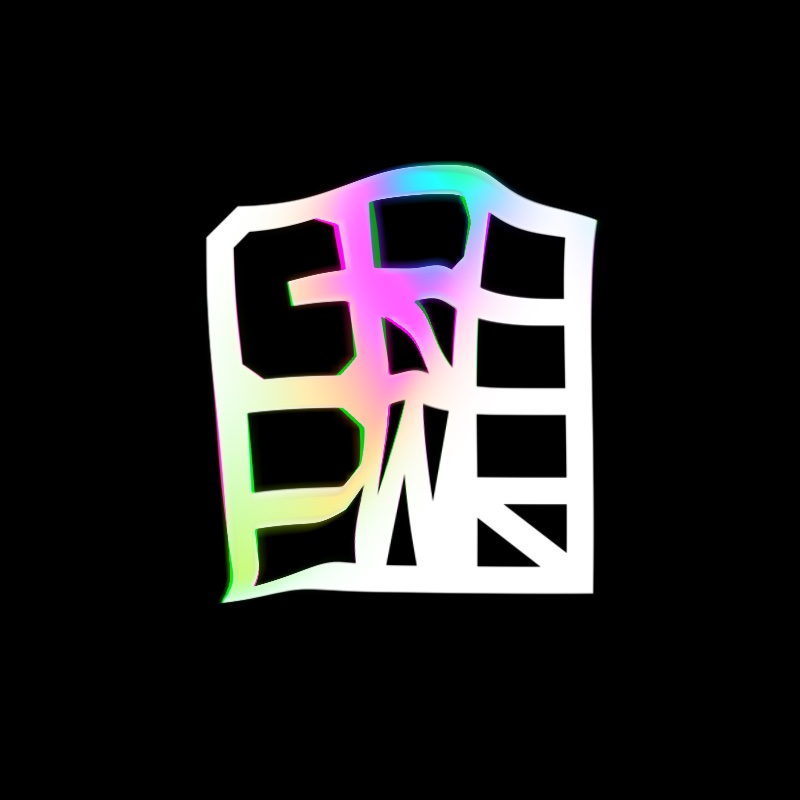
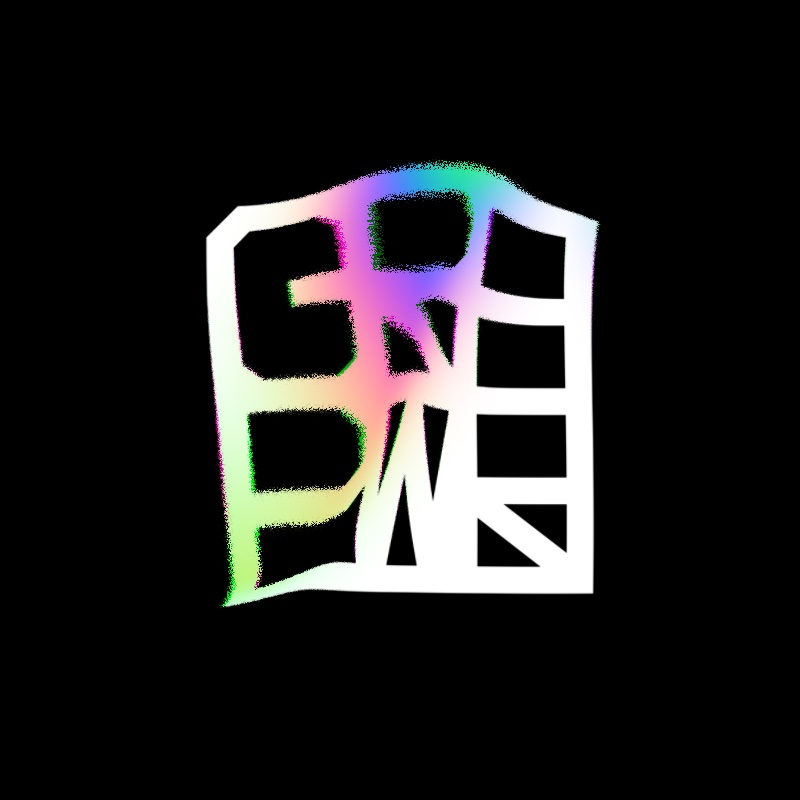
melt: grain back, no rainbow halo around the mark (it outlined the whole square)

Changed region(s): [[0.2812, 0.1875, 0.75, 0.7812], [0.25, 0.5312, 0.2812, 0.625]]

diff --git a/dist/assets/index.20d598e4.js b/dist/assets/index.20d598e4.js
@@ -1,0 +1,113 @@
+import"./modulepreload-polyfill.b7f2da20.js";import{W as G,O as j,e as z,H as W,k as q,L as p,l as x,g,j as l,S as w,M as y,i as H,m as B}from"./vendor.114acf59.js";import{a as F,b as I,L as N,c as V}from"./logo-path.248ebb5a.js";const m=.2;function M(t){const n=document.createElement("canvas");n.width=n.height=t;const a=n.getContext("2d"),i=t*(1-2*m)/V;a.translate(t*m,t*m),a.scale(i,i),a.translate(-F,-F),a.lineWidth=I,a.strokeStyle="#fff",a.stroke(new Path2D(N));const r=new H(n);return r.minFilter=B,r.magFilter=p,r}const s=document.getElementById("melt"),o=new G({canvas:s,antialias:!1,alpha:!1});o.setClearColor(0,1);o.autoClear=!1;const d=new j(-1,1,1,-1,0,1),b=new z(2,2),k=`
+  varying vec2 vUv;
+  void main() { vUv = uv; gl_Position = vec4(position.xy, 0.0, 1.0); }
+`,K=.982,E=.25,S={type:W,format:q,minFilter:p,magFilter:p,depthBuffer:!1};let v=new x(4,4,S),f=new x(4,4,S);const h=new x(4,4,S),c=new g({uniforms:{prev:{value:null},texel:{value:new l},aspect:{value:1},from:{value:new l(-9,-9)},to:{value:new l(-9,-9)},vel:{value:new l},radius:{value:.07},fade:{value:.972}},vertexShader:k,fragmentShader:`
+    uniform sampler2D prev;
+    uniform vec2 texel;
+    uniform float aspect;
+    uniform vec2 from;
+    uniform vec2 to;
+    uniform vec2 vel;
+    uniform float radius;
+    uniform float fade;
+    varying vec2 vUv;
+
+    // distance from p to the segment a..b, in screen-height units
+    float segDist(vec2 p, vec2 a, vec2 b) {
+      vec2 s = vec2(aspect, 1.0);
+      p *= s; a *= s; b *= s;
+      vec2 ab = b - a;
+      float h = clamp(dot(p - a, ab) / max(dot(ab, ab), 1e-6), 0.0, 1.0);
+      return length(p - a - ab * h);
+    }
+
+    void main() {
+      // the field carries itself along (a stroke keeps flowing like syrup), spreads into the
+      // neighbours (the smear widens and softens as it goes), then fades
+      vec2 back = vUv - texture2D(prev, vUv).xy * texel * 5.0;
+      vec2 v = texture2D(prev, back).xy * 0.4
+        + (texture2D(prev, back + vec2(texel.x, 0.0)).xy
+         + texture2D(prev, back - vec2(texel.x, 0.0)).xy
+         + texture2D(prev, back + vec2(0.0, texel.y)).xy
+         + texture2D(prev, back - vec2(0.0, texel.y)).xy) * 0.15;
+      v *= fade;
+      float d = segDist(vUv, from, to);
+      v += vel * exp(-(d * d) / (radius * radius));
+      float m = length(v);
+      if (m > 1.0) v /= m;
+      if (m < 0.004) v = vec2(0.0); // the last trace snaps back instead of lingering
+      gl_FragColor = vec4(v, 0.0, 1.0);
+    }
+  `}),O=new w;O.add(new y(b,c));const D=new g({uniforms:{src:{value:null},texel:{value:new l}},vertexShader:k,fragmentShader:`
+    uniform sampler2D src;
+    uniform vec2 texel;
+    varying vec2 vUv;
+    void main() {
+      vec2 v = vec2(0.0);
+      float wsum = 0.0;
+      for (int j = -2; j <= 2; j++) {
+        for (int i = -2; i <= 2; i++) {
+          float w = exp(-float(i * i + j * j) / 4.0);
+          v += texture2D(src, vUv + vec2(float(i), float(j)) * texel * 2.0).xy * w;
+          wsum += w;
+        }
+      }
+      gl_FragColor = vec4(v / wsum, 0.0, 1.0);
+    }
+  `}),T=new w;T.add(new y(b,D));const u=new g({uniforms:{field:{value:null},logo:{value:M(2048)},goo:{value:M(256)},aspect:{value:1},side:{value:.5},time:{value:0}},vertexShader:k,fragmentShader:`
+    uniform sampler2D field;
+    uniform sampler2D logo;
+    uniform sampler2D goo;
+    uniform float aspect;
+    uniform float side;
+    uniform float time;
+    varying vec2 vUv;
+
+    float hash(vec2 p) { return fract(sin(dot(p, vec2(41.3, 289.1))) * 17853.77); }
+
+    // oil-film rainbow: a cosine palette running through time and across the logo
+    vec3 film(float t) { return 0.5 + 0.5 * cos(6.2831853 * (t + vec3(0.0, 0.33, 0.67))); }
+
+    float ink(sampler2D tex, vec2 uv) {
+      if (uv.x < 0.0 || uv.x > 1.0 || uv.y < 0.0 || uv.y > 1.0) return 0.0;
+      return texture2D(tex, uv).a;
+    }
+
+    // the ink turns to goo where it is disturbed: the crisp mark gives way to a blurred copy cut at
+    // half, which rounds every corner and fuses nearby strokes like melting wax
+    float melt(vec2 uv, float m) {
+      float sharp = ink(logo, uv);
+      float blob = smoothstep(0.32, 0.62, ink(goo, uv));
+      return mix(sharp, blob, smoothstep(0.0, 0.45, m));
+    }
+
+    void main() {
+      vec2 v = texture2D(field, vUv).xy;
+      float m = clamp(length(v), 0.0, 1.0);
+
+      // screen \u2192 logo square
+      vec2 luv = (vUv - 0.5) * vec2(aspect, 1.0) / side + 0.5;
+
+      // smear against the motion, drip down, grain where it is disturbed, and a slow breathing so
+      // the logo is never quite still
+      vec2 off = -v * 0.17;
+      off.y += m * m * 0.06;
+      off += (hash(luv * 512.0 + fract(time)) - 0.5) * 0.025 * m;
+      off += 0.0025 * vec2(sin(luv.y * 7.0 + time * 0.7), cos(luv.x * 6.0 + time * 0.5));
+      vec2 p = luv + off;
+
+      // channel split, strongest where the field is
+      float split = sin((luv.x + luv.y) * 12.0) * 0.022 * m;
+      vec3 col = vec3(
+        melt(p + vec2(split * sin(time * 2.0), 0.0), m),
+        melt(p, m),
+        melt(p - vec2(split * sin(time + luv.x), 0.0), m)
+      );
+
+      // the rainbow, only in the smear and only on the ink itself (a halo around it outlines the mark)
+      vec3 rainbow = film(time * 0.4 + luv.x * luv.y * 1.5 + m * 0.5);
+      col = mix(col, col * rainbow, clamp(m * 1.4, 0.0, 0.85));
+
+      gl_FragColor = vec4(min(col, 1.0), 1.0);
+    }
+  `}),U=new w;U.add(new y(b,u));function _(){const t=window.innerWidth,n=window.innerHeight,a=Math.min(window.devicePixelRatio||1,2);o.setPixelRatio(a),o.setSize(t,n,!1);const i=Math.max(8,Math.round(t*a*E)),r=Math.max(8,Math.round(n*a*E));v.setSize(i,r),f.setSize(i,r),c.uniforms.texel.value.set(1/i,1/r),h.setSize(i,r),D.uniforms.texel.value.set(1/i,1/r),c.uniforms.aspect.value=t/n,u.uniforms.aspect.value=t/n;const L=Math.min(t<=768?.6*t:.3*t,.6*n);u.uniforms.side.value=L/n/(1-2*m),c.uniforms.radius.value=(t<=768?.12:.09)*(L/n)*2}const e={x:-9,y:-9,px:-9,py:-9,active:!1},P=t=>[t.clientX/window.innerWidth,1-t.clientY/window.innerHeight];s.addEventListener("pointerdown",t=>{const[n,a]=P(t);e.x=e.px=n,e.y=e.py=a,e.active=!0});s.addEventListener("pointermove",t=>{const[n,a]=P(t);e.active||(e.px=n,e.py=a,e.active=!0),e.x=n,e.y=a});const A=t=>{t.pointerType!=="mouse"&&(e.active=!1)};s.addEventListener("pointerup",A);s.addEventListener("pointercancel",A);s.addEventListener("pointerleave",()=>e.active=!1);let R=performance.now();function C(t){const n=Math.min(.05,(t-R)/1e3);R=t;const a=c.uniforms;if(a.fade.value=Math.pow(K,n*60),e.active&&(e.x!==e.px||e.y!==e.py)){const i=a.aspect.value,r=60*n>0?1/(60*n):1;a.vel.value.set((e.x-e.px)*i*r*9,(e.y-e.py)*r*9),a.from.value.set(e.px,e.py),a.to.value.set(e.x,e.y)}else a.vel.value.set(0,0),a.from.value.set(-9,-9),a.to.value.set(-9,-9);e.px=e.x,e.py=e.y,a.prev.value=v.texture,o.setRenderTarget(f),o.render(O,d),o.setRenderTarget(null),[v,f]=[f,v],D.uniforms.src.value=v.texture,o.setRenderTarget(h),o.render(T,d),o.setRenderTarget(null),u.uniforms.field.value=h.texture,u.uniforms.time.value=t/1e3,o.clear(),o.render(U,d),requestAnimationFrame(C)}window.addEventListener("resize",_);_();requestAnimationFrame(C);

diff --git a/src/melt/main.ts b/src/melt/main.ts
@@ -15,12 +15,12 @@ import { HalfFloatType, LinearFilter, LinearMipmapLinearFilter, RGBAFormat } fro
 import { LOGO_MIN, LOGO_PATH, LOGO_SPAN, LOGO_STROKE } from '../core/logo-path'
 import './melt.css'
 
-/** Empty margin around the logo in its texture, per side: the smear and the glow flow out past the
- *  mark instead of being cut off by the square (a cut edge reads as an outline). */
+/** Empty margin around the logo in its texture, per side: the smear flows out past the mark instead
+ *  of being cut off by the square (a cut edge reads as an outline). */
 const PAD = 0.2
 
-/** The logo in white on a transparent square of `px` (a power of two); small ones, stretched, are
- *  the blurred copies. */
+/** The logo in white on a transparent square of `px` (a power of two); a small one, stretched, is
+ *  the blurred copy. */
 function logoTexture(px: number): CanvasTexture {
   const c = document.createElement('canvas')
   c.width = c.height = px
@@ -145,7 +145,6 @@ const showMat = new ShaderMaterial({
     field: { value: null },
     logo: { value: logoTexture(2048) },
     goo: { value: logoTexture(256) },
-    soft: { value: logoTexture(96) },
     aspect: { value: 1 },
     side: { value: 0.5 }, // texture side (logo + PAD) in screen heights
     time: { value: 0 },
@@ -155,11 +154,12 @@ const showMat = new ShaderMaterial({
     uniform sampler2D field;
     uniform sampler2D logo;
     uniform sampler2D goo;
-    uniform sampler2D soft;
     uniform float aspect;
     uniform float side;
     uniform float time;
     varying vec2 vUv;
+
+    float hash(vec2 p) { return fract(sin(dot(p, vec2(41.3, 289.1))) * 17853.77); }
 
     // oil-film rainbow: a cosine palette running through time and across the logo
     vec3 film(float t) { return 0.5 + 0.5 * cos(6.2831853 * (t + vec3(0.0, 0.33, 0.67))); }
@@ -184,9 +184,11 @@ const showMat = new ShaderMaterial({
       // screen → logo square
       vec2 luv = (vUv - 0.5) * vec2(aspect, 1.0) / side + 0.5;
 
-      // smear against the motion, drip down, and a slow breathing so the logo is never quite still
+      // smear against the motion, drip down, grain where it is disturbed, and a slow breathing so
+      // the logo is never quite still
       vec2 off = -v * 0.17;
       off.y += m * m * 0.06;
+      off += (hash(luv * 512.0 + fract(time)) - 0.5) * 0.025 * m;
       off += 0.0025 * vec2(sin(luv.y * 7.0 + time * 0.7), cos(luv.x * 6.0 + time * 0.5));
       vec2 p = luv + off;
 
@@ -198,11 +200,9 @@ const showMat = new ShaderMaterial({
         melt(p - vec2(split * sin(time + luv.x), 0.0), m)
       );
 
-      // the rainbow, only in the smear: it tints the ink and glows in a halo around it
+      // the rainbow, only in the smear and only on the ink itself (a halo around it outlines the mark)
       vec3 rainbow = film(time * 0.4 + luv.x * luv.y * 1.5 + m * 0.5);
-      float glow = ink(soft, p);
-      col = mix(col, col * rainbow, clamp(glow * m * 1.4, 0.0, 0.85));
-      col += max(glow - col.g, 0.0) * rainbow * m * 2.2;
+      col = mix(col, col * rainbow, clamp(m * 1.4, 0.0, 0.85));
 
       gl_FragColor = vec4(min(col, 1.0), 1.0);
     }

diff --git a/dist/melt/index.html b/dist/melt/index.html
@@ -5,7 +5,7 @@
     <meta charset="UTF-8" />
     <meta name="viewport" content="width=device-width, initial-scale=1.0, user-scalable=no" />
     <title>melt — grbpwr</title>
-  <script type="module" crossorigin src="/assets/index.c91e4c1d.js"></script>
+  <script type="module" crossorigin src="/assets/index.20d598e4.js"></script>
   <link rel="modulepreload" href="/assets/modulepreload-polyfill.b7f2da20.js">
   <link rel="modulepreload" href="/assets/vendor.114acf59.js">
   <link rel="modulepreload" href="/assets/logo-path.248ebb5a.js">
